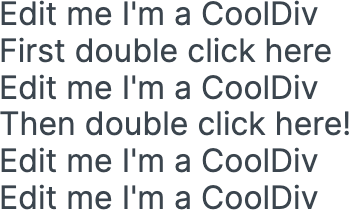
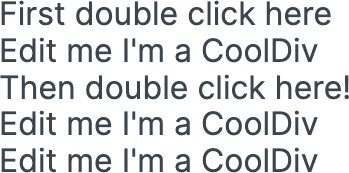
[ecu] Add component CoolDiv to App

diff --git a/app/src/App.tsx b/app/src/App.tsx
@@ -40,6 +40,7 @@ function App(props: AppPropsType) {
   return (
     <>
       
+      <CoolDiv />
       <Text data-ecu="eylwB5S7sE:0">First double click here</Text>
       <CoolDiv />
       <Text data-ecu="eylwB5S7sE:1">Then double click here!</Text>
